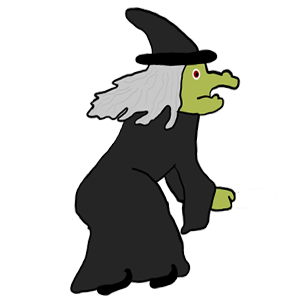
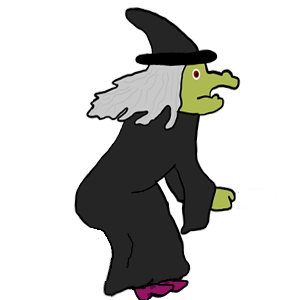
Added game screen witch death animation

Changed region(s): [[0.21, 0.75, 0.63, 1.0], [0.48, 0.57, 0.54, 0.63], [0.45, 0.63, 0.48, 0.66]]

diff --git a/src/ui/qml/GameScreenWitch.qml b/src/ui/qml/GameScreenWitch.qml
@@ -1,0 +1,228 @@
+import QtQuick 2.0
+
+
+Rectangle {
+    width: 450
+    height: 700
+    color: "transparent"
+
+    MouseArea{
+        anchors.fill: parent
+        onClicked:{
+            startPickUpWitch()
+        }
+    }
+
+    Connections{
+        target: page
+        onClawHasWitch:{
+            swingBodyTimer.start();
+            head.source = "Angry_Witch.png";
+        }
+        onWitchIsOverOven:{
+            flail.start();
+            head.source = "Angry_Witch_Scared.png";
+
+        }
+        onClearBoard:{
+            head.source = "Witch_Head.png";
+            flail.stop()
+            swingBody.stop();
+        }
+    }
+
+    Timer{
+        id: swingBodyTimer
+        interval: 300
+        repeat: false
+        running: false
+        onTriggered:{
+            swingBody.start()
+        }
+    }
+
+    Image{
+        id:head
+        x: 150
+        anchors.horizontalCenterOffset: 0
+        anchors.topMargin: 8
+        sourceSize.height: 150
+        sourceSize.width: 150
+        z: 3
+        anchors.top: parent.top
+        anchors.horizontalCenter: parent.horizontalCenter
+        source: "Witch_Head.png"
+    }
+
+    Rectangle{
+        id:body
+        x: 68
+        anchors.horizontalCenterOffset: -7
+        anchors.topMargin: -368
+        anchors.top: head.bottom
+        anchors.horizontalCenter: head.horizontalCenter
+        height: 623
+        width: 300
+        color: "transparent"
+
+        Image{
+            x: -34
+            y: 392
+            height: 400
+            anchors.bottomMargin: -14
+            z: 1
+            width: 324
+            anchors.bottom: parent.bottom
+
+            source: "Witch_Torso.png"
+
+
+            Image{
+                id: leftArm
+                anchors.leftMargin: 78
+                anchors.topMargin: -23
+                anchors.left: parent.left
+                anchors.top: parent.top
+                source: "Witch_Left_Arm.png"
+
+                Image{
+                    id: leftHand
+                    y: 79
+                    anchors.leftMargin: 8
+                    anchors.topMargin: 209
+                    rotation: 0
+                    anchors.top: parent.top
+                    anchors.left: parent.left
+                    z: -1
+                    source: "Witch_Hand.png"
+                }
+                SequentialAnimation{
+                    id: waveLeftHand
+                    running: flail.running
+                    loops: Animation.Infinite
+                    alwaysRunToEnd: true
+                    NumberAnimation {target: leftHand; property: "rotation"; from: 5; to:-17; duration: 70; easing.type: Easing.Linear;}
+                    NumberAnimation {target: leftHand; property: "rotation"; from: -17; to: 5; duration: 70; easing.type: Easing.Linear;}
+                }
+            }
+
+
+
+
+
+            Image{
+                id: rightArm
+                x: 206
+                anchors.rightMargin: 27
+                anchors.topMargin: 41
+                rotation: 0
+                anchors.right: parent.right
+                anchors.top: parent.top
+                source: "Witch_Right_Arm.png"
+
+                Image {
+                id: rightHand
+                x: 38
+                rotation: -16
+                z: -1
+                mirror: true
+                anchors.rightMargin: 11
+                anchors.topMargin: 161
+                    anchors.right: parent.right
+                    anchors.top: parent.top
+                    source: "Witch_Hand.png"
+                }
+
+
+                SequentialAnimation{
+                    id: waveRightHand
+                    running: flail.running
+                    loops: Animation.Infinite
+                    alwaysRunToEnd: true
+                    NumberAnimation {target: rightHand; property: "rotation"; from: 29; to: -19; duration: 70; easing.type: Easing.Linear;}
+                    NumberAnimation {target: rightHand; property: "rotation"; from: -19; to: 29; duration: 70; easing.type: Easing.Linear;}
+                }
+            }
+
+        }
+
+        Image {
+            id: pants
+            x: -31
+            y: 186
+            width: 318
+            height: 421
+            rotation: 0
+            z: -1
+            source: "Witch_Pants.png"
+
+
+        }
+
+        Image{
+            id: leftFoot
+            x: -56
+            y: 131
+            z:-2
+            anchors.verticalCenterOffset: 69
+            anchors.horizontalCenterOffset: -6
+            anchors.centerIn: parent
+            source: "Witch_Boots.png"
+        }
+
+
+        SequentialAnimation{
+            id: swingBody
+            running: false
+            alwaysRunToEnd: true
+            loops: Animation.Infinite
+            ParallelAnimation{
+                NumberAnimation {target: body; property: "rotation"; from: 0; to: -30; duration: 500; easing.type: Easing.OutSine;}
+                NumberAnimation {target: pants; property: "rotation"; from: 0; to: -25; duration: 500; easing.type: Easing.OutSine;}
+            }
+            ParallelAnimation{
+                NumberAnimation {target: body; property: "rotation"; from: -30; to: 0; duration: 500; easing.type: Easing.InSine;}
+                NumberAnimation {target: pants; property: "rotation"; from: -25; to: 0; duration: 500; easing.type: Easing.InSine;}
+            }
+            ParallelAnimation{
+                NumberAnimation {target: body; property: "rotation"; from: 0; to: 30; duration: 500; easing.type: Easing.OutSine;}
+                NumberAnimation {target: pants; property: "rotation"; from: 0; to: 25; duration: 500; easing.type: Easing.OutSine;}
+            }
+            ParallelAnimation{
+                NumberAnimation {target: body; property: "rotation"; from: 30; to: 0; duration: 500; easing.type: Easing.InSine;}
+                NumberAnimation {target: pants; property: "rotation"; from: 25; to: 0; duration: 500; easing.type: Easing.InSine;}
+            }
+
+
+
+        }
+
+        ParallelAnimation{
+            id: flail
+            loops: Animation.Infinite
+            running: false
+            alwaysRunToEnd: true
+
+
+
+            SequentialAnimation {
+                id: flailLeftArm
+                alwaysRunToEnd: true
+                NumberAnimation {target: leftArm; property: "rotation"; from: 0; to: 120; duration: 300; easing.type: Easing.Linear;}
+                NumberAnimation {target: leftArm; property: "rotation"; from: 120; to: 0; duration: 300; easing.type: Easing.Linear;}
+
+            }
+
+            SequentialAnimation {
+                id: flailRightArm
+                alwaysRunToEnd: true
+                NumberAnimation {target: rightArm; property: "rotation"; from: 0; to: -120; duration: 300; easing.type: Easing.Linear;}
+                NumberAnimation {target: rightArm; property: "rotation"; from: -120; to: 0; duration: 300; easing.type: Easing.Linear;}
+            }
+        }
+    }
+
+}
+
+
+

diff --git a/src/ui/qml/Witch.qml b/src/ui/qml/Witch.qml
@@ -1,18 +1,18 @@
 import QtQuick 2.0
 
 Item {
-	id: witch
-	 y: 170
+    id: witch
+     y: 170
      state: "ON"
 
-	Image{
+    Image{
         id: witch_image
-		width: 200; height: 124
-		source: "TheWitch.png"
+        width: 200; height: 124
+        source: "TheWitch.png"
         mirror: false
-	}
-	
-	states: [
+    }
+
+    states: [
         State{
             name: "ON"
             PropertyChanges { target: witch;  y: 170 }
@@ -25,42 +25,41 @@ Item {
         }
 
     ]
-	
-	SequentialAnimation{
-		id: witch_animation
-		running: true;
-		loops: Animation.Infinite
 
-		NumberAnimation {
-			target: witch
-			properties: "x"
-			from: -1000
-			to: 2000;
-			duration: 4000;
-		}
+    SequentialAnimation{
+        id: witch_animation
+        running: true;
+        loops: Animation.Infinite
 
-		ScriptAction{
-			script: {
-				//javascript to flip the witch around
+        NumberAnimation {
+            target: witch
+            properties: "x"
+            from: -1000
+            to: 2000;
+            duration: 4000;
+        }
+
+        ScriptAction{
+            script: {
+                //javascript to flip the witch around
                 witch_image.mirror = true;
-			}
-		}
+            }
+        }
 
-		NumberAnimation {
-			target: witch
-			properties: "x"
-			from: 2000
-			to: -1000
-			duration: 4000
-		}
+        NumberAnimation {
+            target: witch
+            properties: "x"
+            from: 2000
+            to: -1000
+            duration: 4000
+        }
 
-		ScriptAction{
-			script: {
-				//javascript to flip the witch around
+        ScriptAction{
+            script: {
+                //javascript to flip the witch around
                 witch_image.mirror = false;
-			}
-		}
-	}
+            }
+        }
+    }
 }
-
 

diff --git a/src/ui/qml/GameScreen.qml b/src/ui/qml/GameScreen.qml
@@ -55,7 +55,8 @@ Rectangle {
         }
     }
 
-    Flame{
+
+    Flame {
         anchors.centerIn: oven
         anchors.verticalCenterOffset: 22
         anchors.horizontalCenterOffset: 18
@@ -193,10 +194,17 @@ Rectangle {
         anchors.horizontalCenterOffset: 1100// _CLAW_X_HOME - platformGretel.x - platformHansel.width/2
     }
 
+    WitchClaw {
+        id: witchClaw
+        z: 73
+        anchors.centerIn: platformWitch
+        anchors.verticalCenterOffset: -700//_CLAW_Y_HOME - platformGretel.y + platformHansel.height/2
+        anchors.horizontalCenterOffset: 1100// _CLAW_X_HOME - platformGretel.x - platformHansel.width/2
+    }
+
+
     Hansel{
         id: platformHansel
-        //x: kidsPlatform.x + 20
-        //y: kidsPlatform.x - height
         y: leftPlatform.y - 300
         x: leftPlatform.x + 10
         z: 72
@@ -204,13 +212,21 @@ Rectangle {
     }
 
     Gretel{
+        visible: false
         id: platformGretel
-        //x: kidsPlatform.x + 20
-        //y: kidsPlatform.x - height
         y: rightPlatform.y - 300
         x: rightPlatform.x - 80
         z: 72
         scale: 0.14
+    }
+
+    GameScreenWitch {
+        id: platformWitch
+
+        y: rightPlatform.y - 290
+        x: rightPlatform.x - 80
+        z: 72
+        scale: 0.41
     }
 
     Image {

diff --git a/src/ui/qml/StartScreen.qml b/src/ui/qml/StartScreen.qml
@@ -13,7 +13,7 @@ Rectangle {
     color: "#00FFFF"
     visible: false
 
-    state: _SKIP_INTROS? "VISIBLE" : "INVISIBLE"
+    state: "INVISIBLE"
 
     SoundEffect {
         id: gateSound

diff --git a/src/ui/qml/WitchClaw.qml b/src/ui/qml/WitchClaw.qml
@@ -1,0 +1,6 @@
+import QtQuick 2.0
+
+Rectangle {
+    width: 100
+    height: 62
+}
